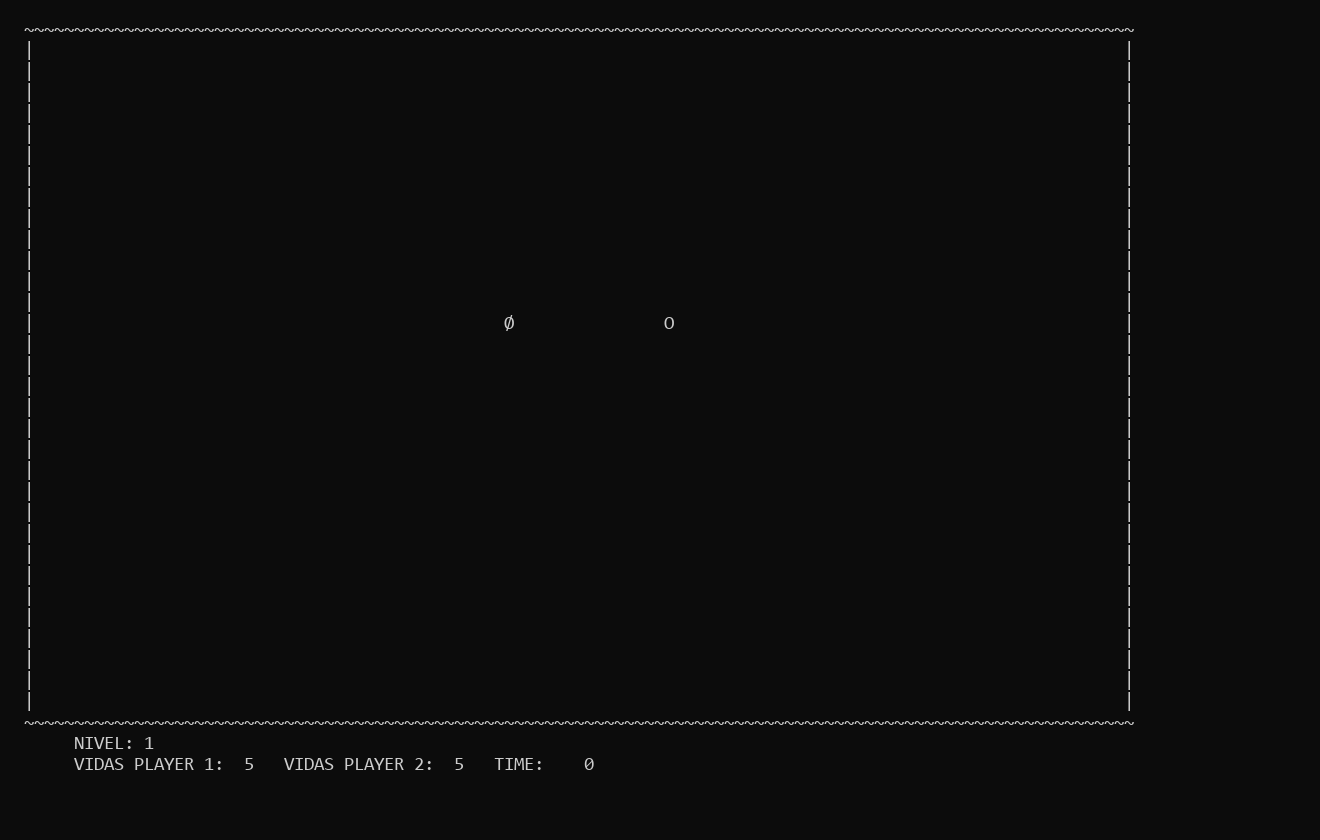
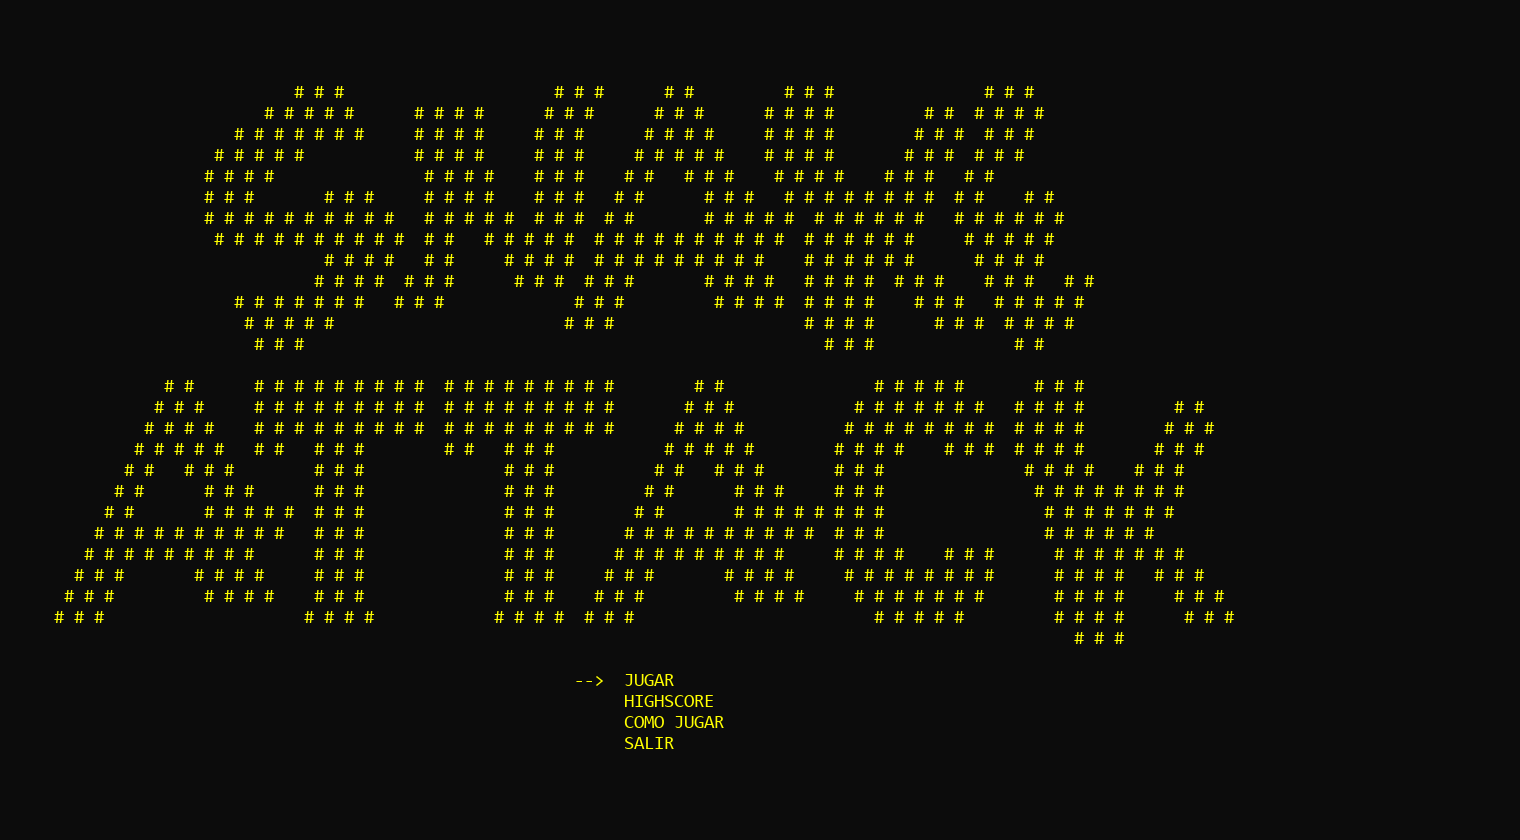
docs: mostrar el título del juego en la previsualización

diff --git a/README.md b/README.md
@@ -4,9 +4,9 @@ Juego de supervivencia inspirado en Snake, desarrollado en **C para la consola d
 
 ## Previsualización
 
-![Tablero de SnakeAttack al iniciar una partida local de dos jugadores](docs/images/snakeattack-ejecucion.png)
+![Título y menú principal de SnakeAttack](docs/images/snakeattack-ejecucion.png)
 
-*Vista inicial del nivel 1 para dos jugadores. Imagen renderizada a partir del contenido real del búfer de consola durante la ejecución del juego, antes de iniciar el movimiento.*
+*Título y menú principal del juego. Imagen renderizada a partir del contenido real del búfer de consola durante la ejecución.*
 
 ## ¿De qué consta el proyecto?
 
